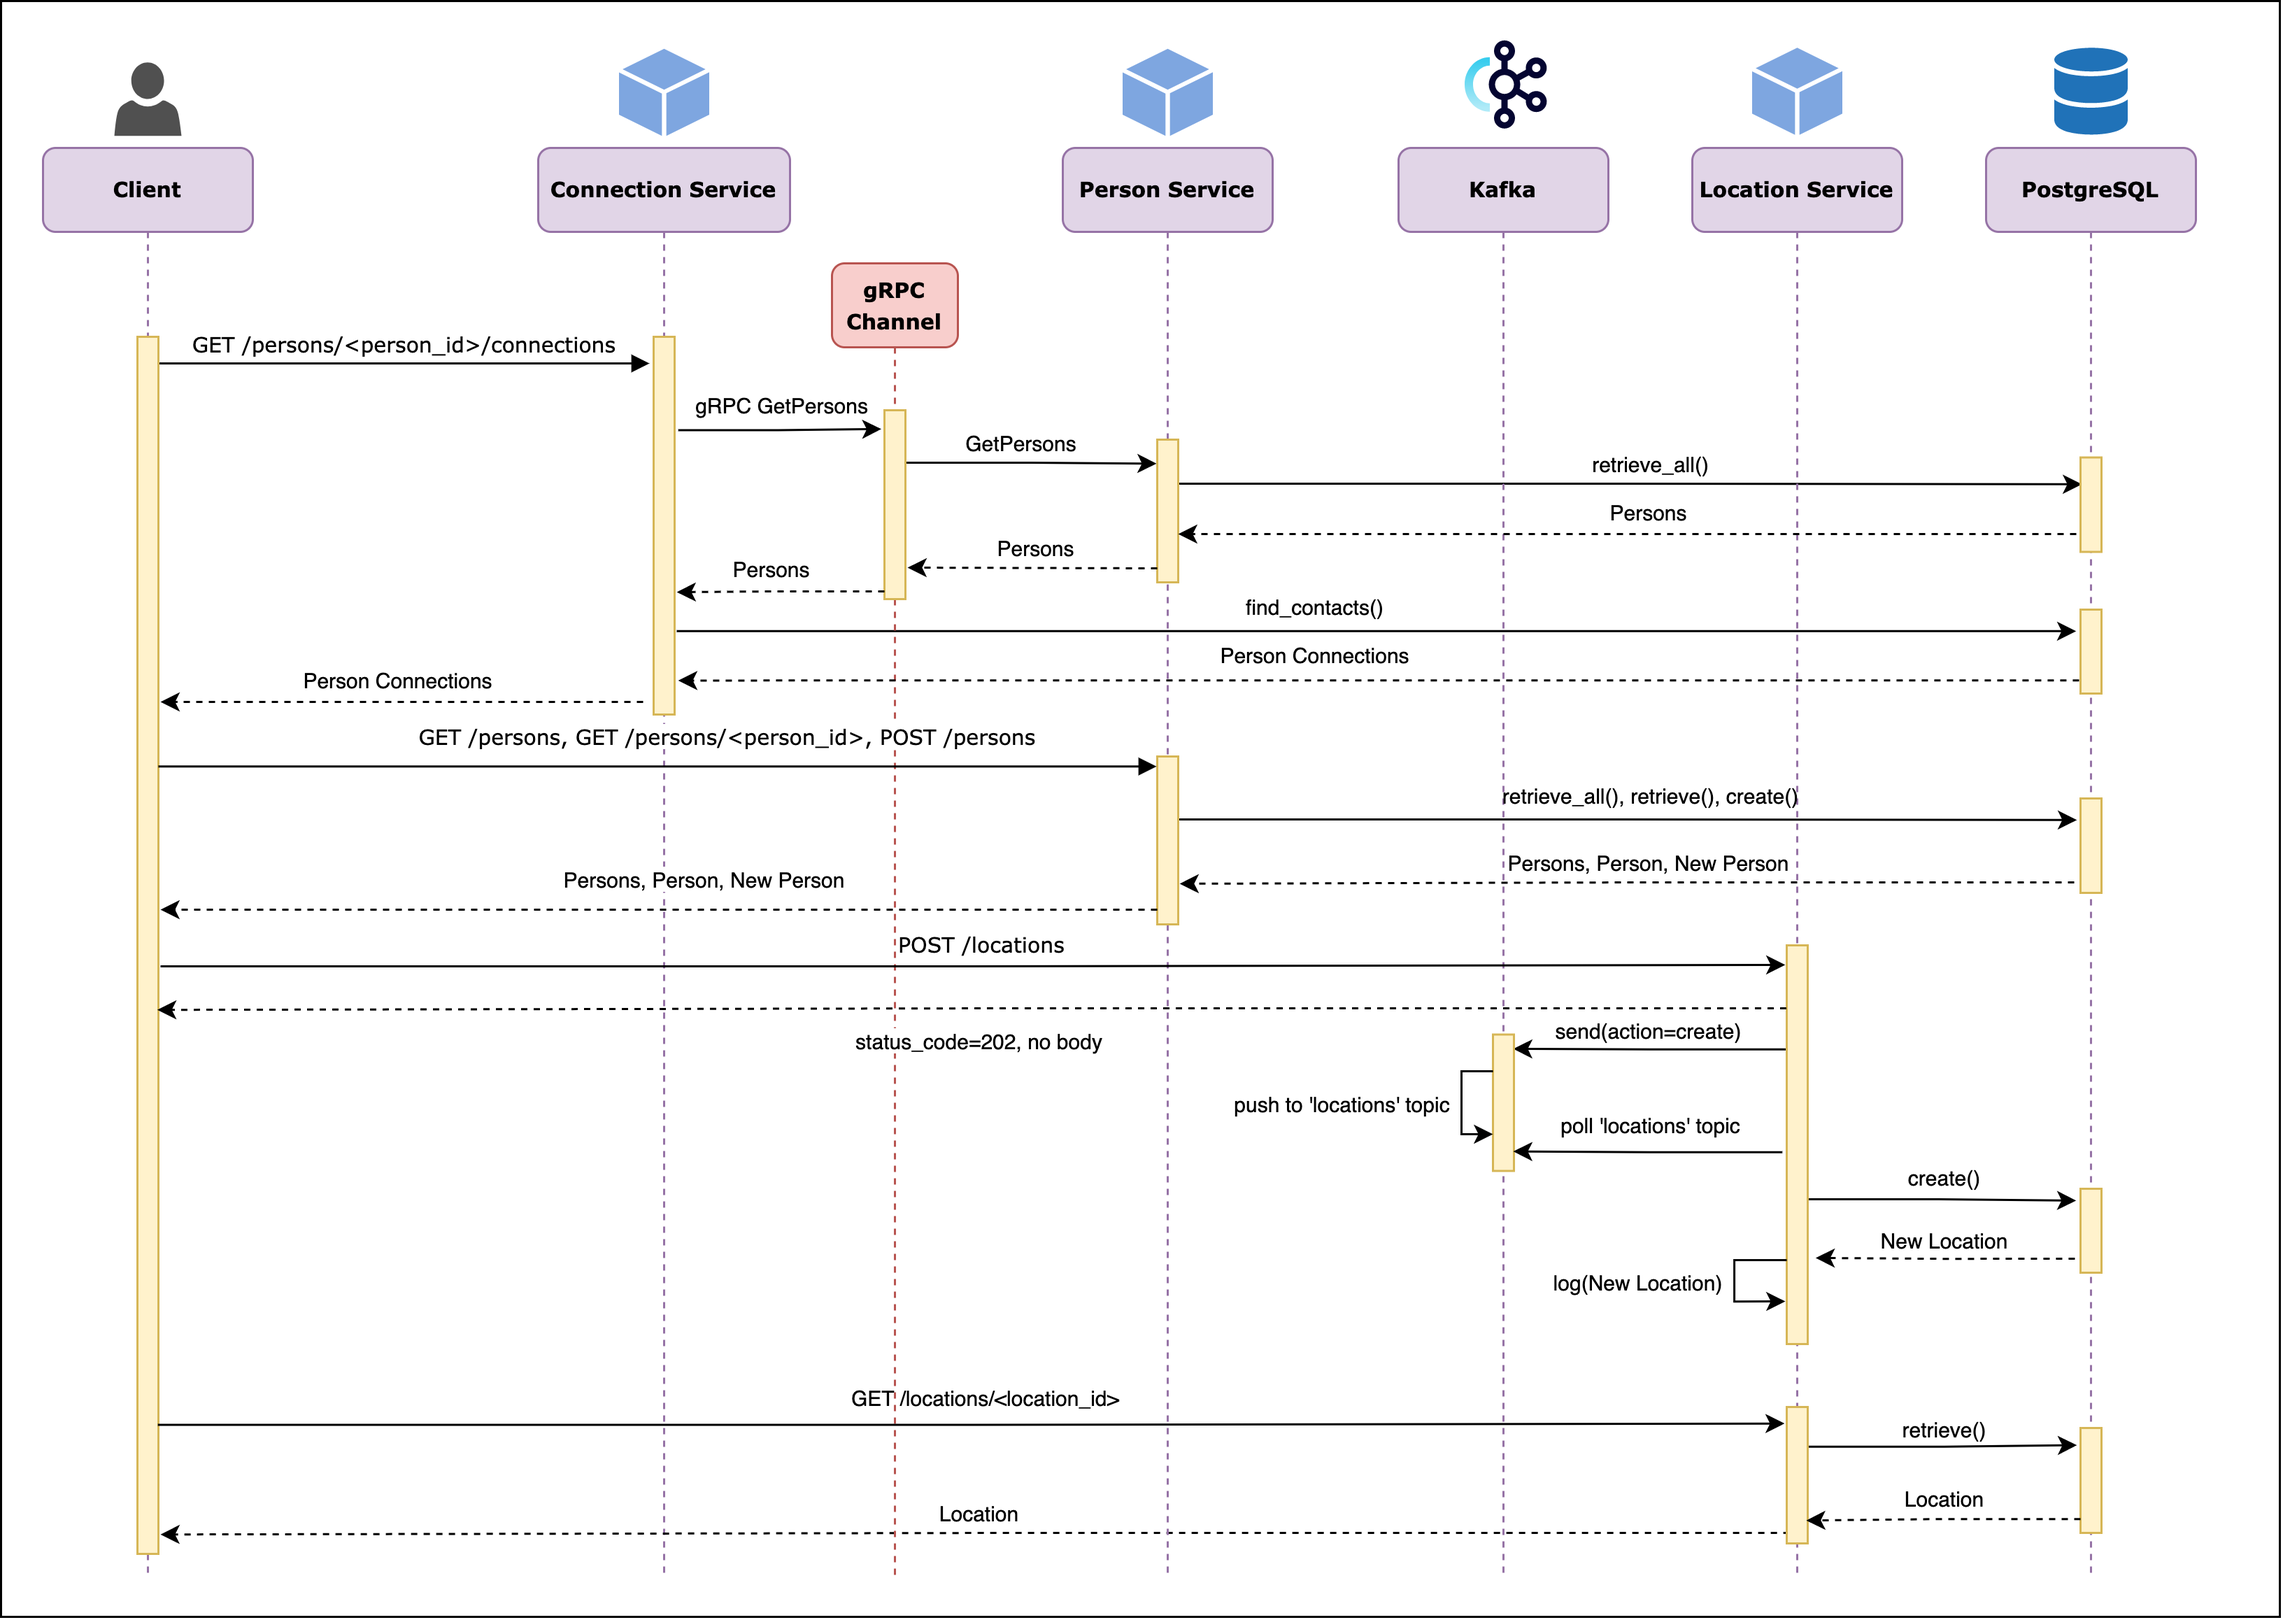
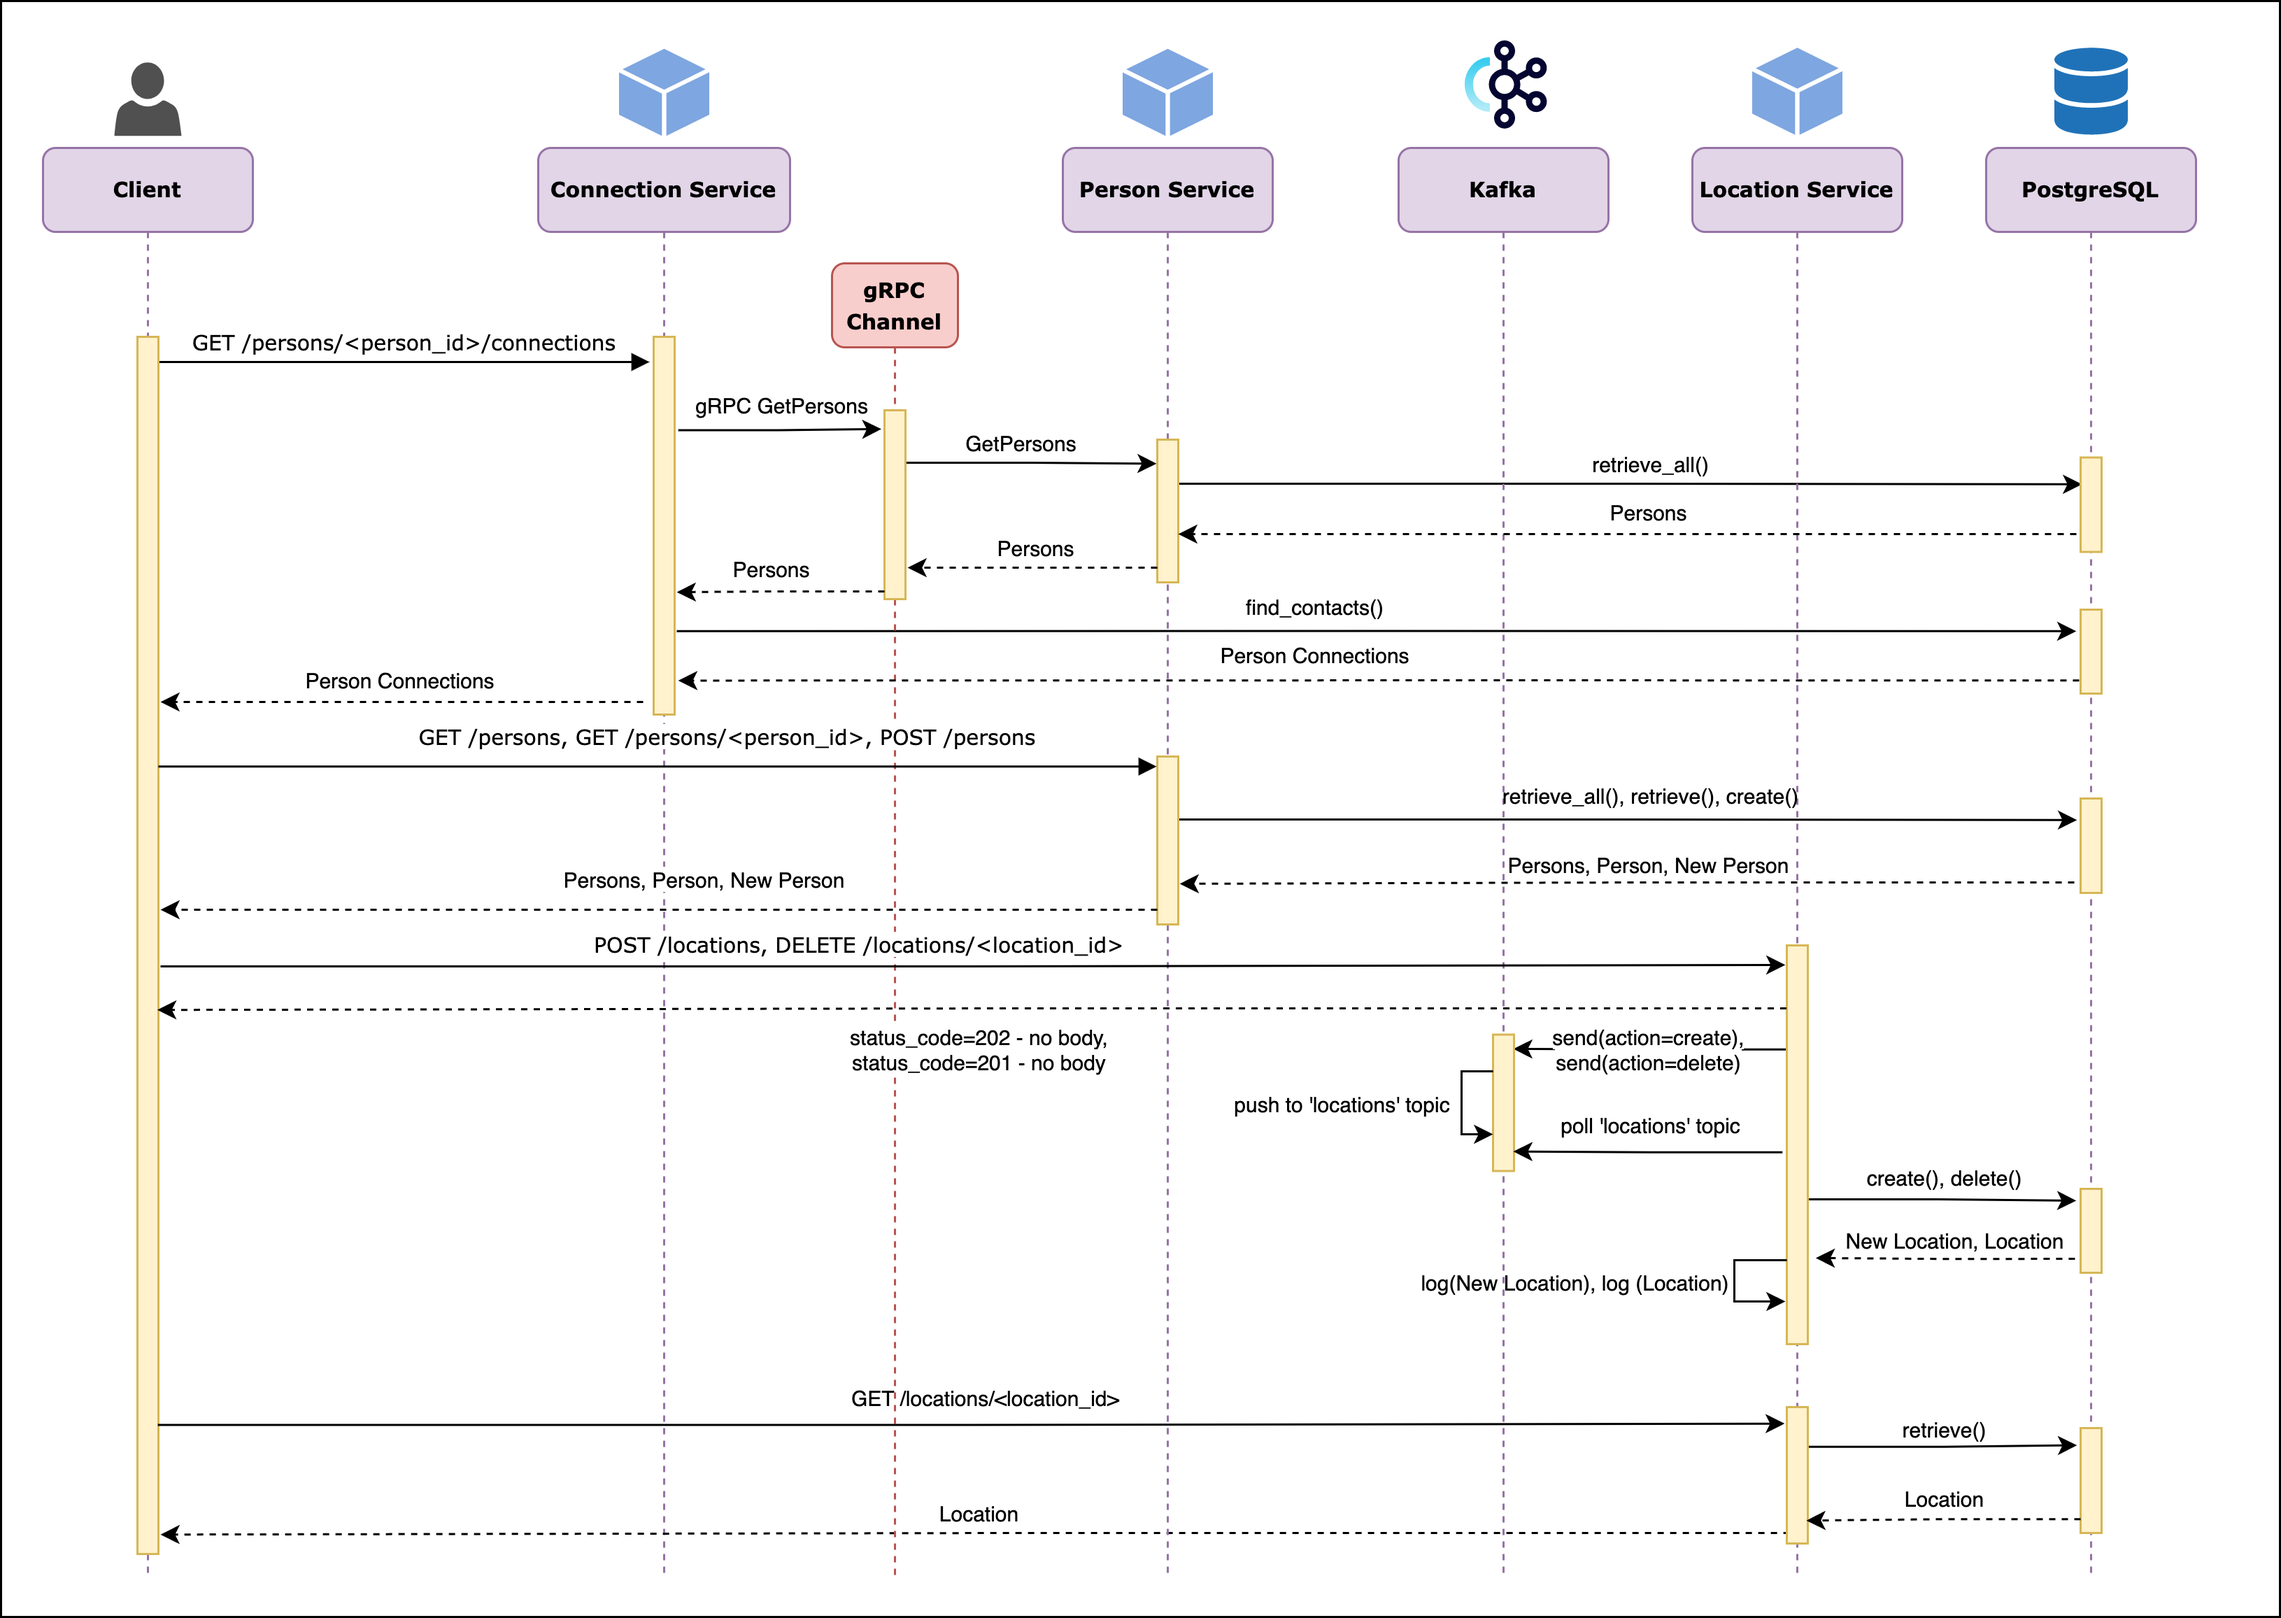
docs: update architecture

diff --git a/docs/architecture-decisions.md b/docs/architecture-decisions.md
@@ -16,7 +16,7 @@
        - GET /persons
        - GET /persons/<person_id: int>
        - POST /persons
-       - DELETE /persons/<person_id: int> (new API endpoint)
+       - DELETE /persons/<person_id: int> (new API endpoint), implemented: ❌
 
   2. `udaconnect-connections-service`:
 
@@ -27,6 +27,7 @@
      - RESTful microservice to handle `/locations` resource including:
        - GET /locations/<location_id: int>
        - POST /locations
+       - DELETE /locations/<location_id: int> (new API endpoint), implemented: ✅
 
 - The proposed architecture design concludes the following:
 
@@ -94,7 +95,7 @@
 
       <br />
 
-      1. action="create":
+      1] action="create":
 
       ```json
       {
@@ -111,6 +112,21 @@
       -> Kafka consumer will call `create()` method in `Location service`.
 
       Response: `202 - No Content`
+
+      2] action="delete":
+
+      ```json
+      {
+        "action": "delete",
+        "data": {
+          "id": "<location_id: int>"
+        }
+      }
+      ```
+
+      -> Kafka consumer will call `delete()` method in `Location service`.
+
+      Response: `201 - No Content`
 
 [dpendency-graph]: ./assets/imgs/dependency-graph-simple.png
 [arch-design]: ./architecture_design.png
